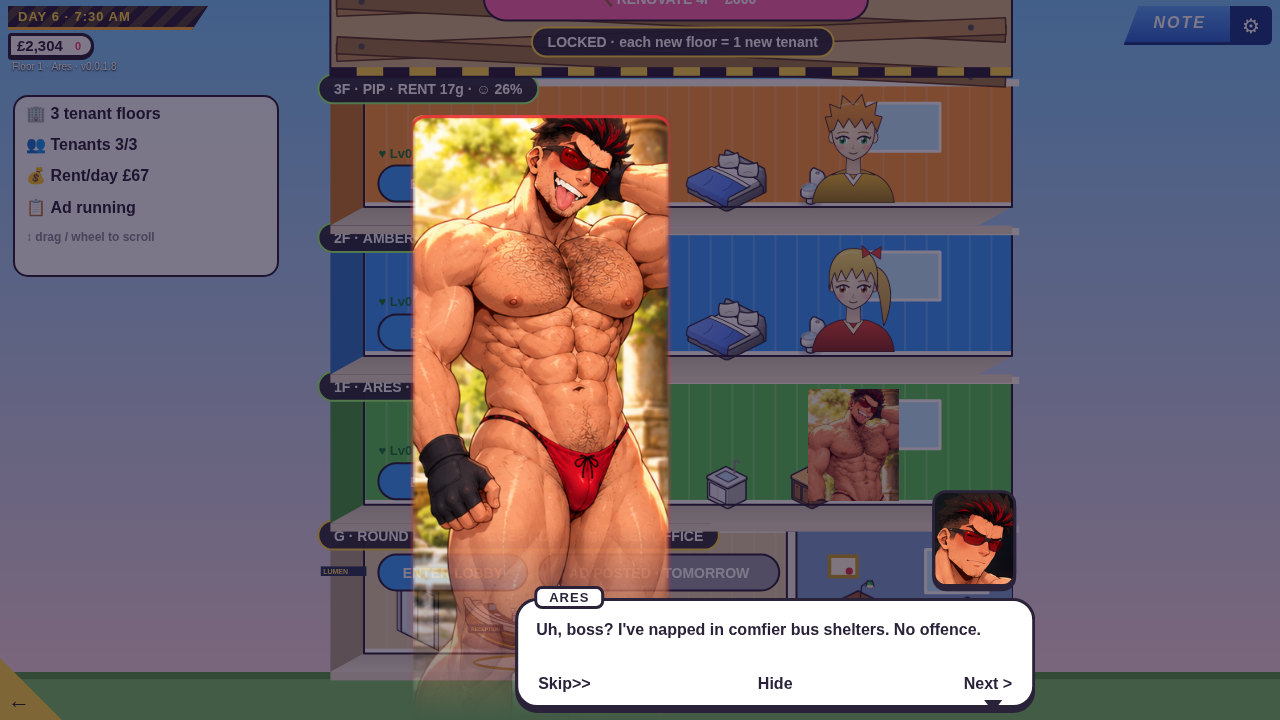
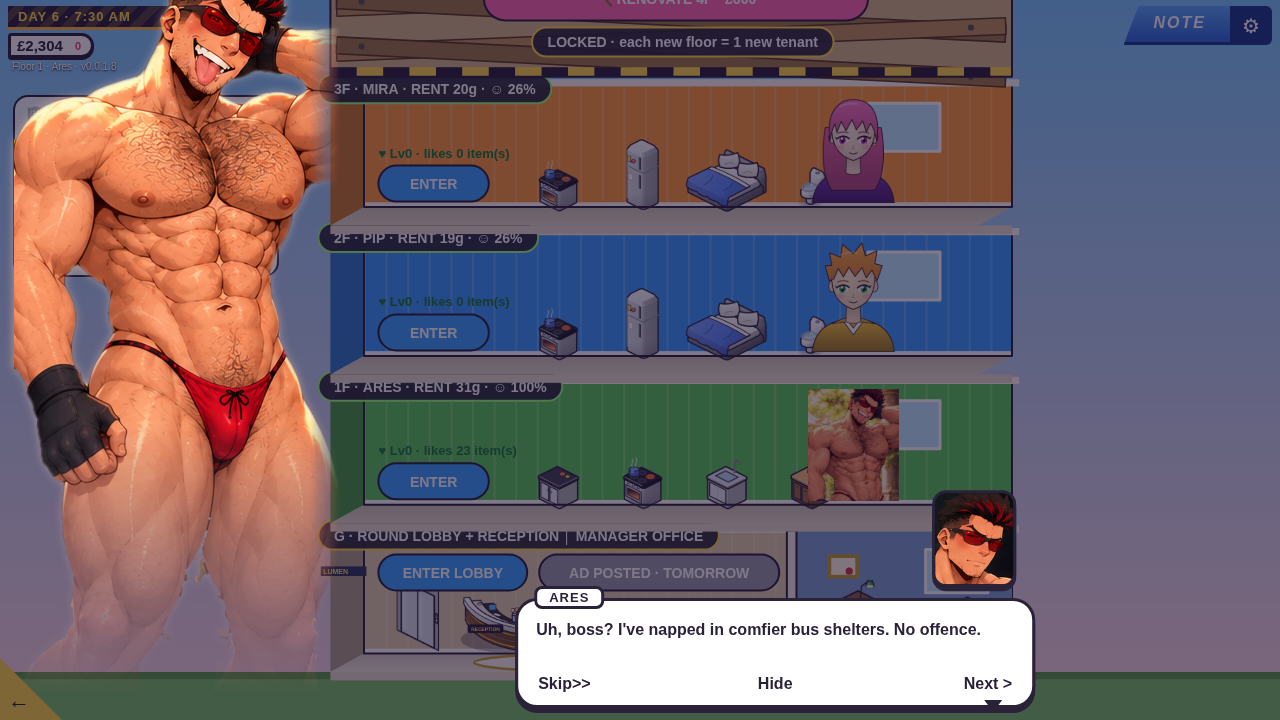
v0.0.1.8: Ares big model over the current scene (garden removed), 1:1, edge cleanup

diff --git a/ares.js b/ares.js
@@ -13,14 +13,16 @@ const aresReady=n=>{const i=ARES_IMG[n];return i&&i.complete&&i.naturalWidth>0;}
 // Dialogue art: the CG shown at native resolution in a clean frame, keeping its own painted background;
 // only the frame's alpha is feathered (sides) and faded (bottom, behind the text box) so no crop edge shows.
 let _adc=null;
-function aresDialogueArt(){if(_adc)return _adc;const b=ARES_IMG.cg;if(!aresReady('cg'))return null;const W=b.naturalWidth,H=b.naturalHeight;
- const c=document.createElement('canvas');c.width=W;c.height=H;const g=c.getContext('2d');g.drawImage(b,0,0);
- g.strokeStyle='rgba(232,50,58,.9)';g.lineWidth=4;g.beginPath();g.roundRect(2,2,W-4,H-4,18);g.stroke();
- g.globalCompositeOperation='destination-in';const m=document.createElement('canvas');m.width=W;m.height=H;const q=m.getContext('2d');
- q.beginPath();q.roundRect(0,0,W,H,18);q.fillStyle='#000';q.fill();q.globalCompositeOperation='destination-out';
- const fx=8;[[0,fx,1],[W,W-fx,1]].forEach(([a0,a1])=>{const lg=q.createLinearGradient(a0,0,a1,0);lg.addColorStop(0,'rgba(0,0,0,1)');lg.addColorStop(1,'rgba(0,0,0,0)');q.fillStyle=lg;q.fillRect(Math.min(a0,a1),0,fx,H);});
- const bg=q.createLinearGradient(0,H*.68,0,H);bg.addColorStop(0,'rgba(0,0,0,0)');bg.addColorStop(1,'rgba(0,0,0,1)');q.fillStyle=bg;q.fillRect(0,H*.68,W,H*.32);
- g.drawImage(m,0,0);return _adc=c;}
+{const im=new Image();im.src='assets/ares/cg_cut.png';ARES_IMG.cg_cut=im;}
+// Big model over the live (dimmed) scene: the CG figure cut from its garden (alpha only), a soft warm rim glow,
+// shown 1:1 anchored to the bottom-left screen corner (his left-arm crop lies on the screen edge, the right elbow crop is feathered), and the legs fading out behind the text box.
+function aresDialogueArt(){if(_adc)return _adc;if(!aresReady('cg_cut'))return null;const b=ARES_IMG.cg_cut,P=14,W=b.naturalWidth+P*2,H=b.naturalHeight+P;
+ const c=document.createElement('canvas');c.width=W;c.height=H;const g=c.getContext('2d');
+ g.save();g.shadowColor='rgba(255,214,190,.55)';g.shadowBlur=10;g.drawImage(b,P,P);g.restore();g.drawImage(b,P,P);
+ g.globalCompositeOperation='destination-out';
+ [[W-P,W-P-30]].forEach(([a0,a1])=>{const lg=g.createLinearGradient(a0,0,a1,0);lg.addColorStop(0,'rgba(0,0,0,1)');lg.addColorStop(1,'rgba(0,0,0,0)');g.fillStyle=lg;g.fillRect(Math.min(a0,a1)-(a0<a1?P:0),0,30+P,H);});
+ const bg=g.createLinearGradient(0,H*.62,0,H*.97);bg.addColorStop(0,'rgba(0,0,0,0)');bg.addColorStop(1,'rgba(0,0,0,1)');g.fillStyle=bg;g.fillRect(0,H*.62,W,H*.38);
+ return _adc=c;}
 // small face badge = the sheet's close-up for the line's emotion (shown at <= native size, anchored to the text box)
 function aresFace(expr){expr={happy:'smile',laugh:'smile',smirk:'teasing',embarrassed:'blush',blushing:'blush',thinking:'serious'}[expr]||expr;if(!ARES_EXPR.includes(expr))expr='smile';const n='expr_'+(expr=='blush'?'blushing':expr);return aresReady(n)?ARES_IMG[n]:null;}
 // small uses (applicant card, tenant list): the CG's upper body at native pixels, 420:520 aspect

diff --git a/game.js b/game.js
@@ -351,9 +351,9 @@ function drawApps(t){ctx.setTransform(1,0,0,1,0,0);const W=cv.width,H=cv.height;
 // ---------- dialogue ----------
 const dlg={on:false,lines:[],i:0,ch:0,name:'',hidden:false};
 function startDialogue(name,lines){Object.assign(dlg,{on:true,lines,i:0,ch:0,name,hidden:false});$('dlg').style.display='block';$('dlgName').textContent=name.toUpperCase();showLine();for(const k in keys)keys[k]=0;}
-function showLine(){const l=dlg.lines[dlg.i];const pc=$('dlgPortrait'),g=pc.getContext('2d');g.clearRect(0,0,pc.width,pc.height);const AA=dlg.name=='Ares'&&typeof aresDialogueArt=='function'&&aresDialogueArt(),fc=$('dlgFace');if(AA){const dpr=window.devicePixelRatio||1;if(pc.width!=AA.width){pc.width=AA.width;pc.height=AA.height;}g.clearRect(0,0,pc.width,pc.height);g.drawImage(AA,0,0);pc.style.height=Math.min(innerHeight*.84,AA.height/dpr)+'px';pc.style.filter='none';
+function showLine(){const l=dlg.lines[dlg.i];const pc=$('dlgPortrait'),g=pc.getContext('2d');g.clearRect(0,0,pc.width,pc.height);const AA=dlg.name=='Ares'&&typeof aresDialogueArt=='function'&&aresDialogueArt(),fc=$('dlgFace');if(AA){const dpr=window.devicePixelRatio||1;if(pc.width!=AA.width){pc.width=AA.width;pc.height=AA.height;}g.clearRect(0,0,pc.width,pc.height);g.drawImage(AA,0,0);pc.style.height=Math.min(AA.height/dpr,innerHeight*1.12)+'px';pc.style.filter='none';pc.style.left='0';pc.style.transform='none';
  const F=aresFace(l.e);if(F){fc.width=F.naturalWidth;fc.height=F.naturalHeight;const fg=fc.getContext('2d');fg.clearRect(0,0,fc.width,fc.height);fg.drawImage(F,0,0);fc.style.width=Math.min(F.naturalWidth/dpr,84)+'px';fc.style.display='block';}else fc.style.display='none';}
- else{if(pc.width!=420){pc.width=420;pc.height=520;}pc.style.height='';pc.style.filter='';fc.style.display='none';g.drawImage(portrait(dlg.name,l.e),0,0,pc.width,pc.height);}dlg.ch=0;$('dlgText').textContent='';$('dlgBox').style.visibility='visible';dlg.hidden=false;}
+ else{if(pc.width!=420){pc.width=420;pc.height=520;}pc.style.height='';pc.style.filter='';pc.style.left='';pc.style.transform='';fc.style.display='none';g.drawImage(portrait(dlg.name,l.e),0,0,pc.width,pc.height);}dlg.ch=0;$('dlgText').textContent='';$('dlgBox').style.visibility='visible';dlg.hidden=false;}
 function dlgNext(){const l=dlg.lines[dlg.i];if(dlg.ch<l.t.length){dlg.ch=l.t.length;$('dlgText').textContent=l.t;return;}dlg.i++;if(dlg.i>=dlg.lines.length)dlgClose();else showLine();}
 function dlgClose(){dlg.on=false;$('dlg').style.display='none';}
 $('dlgNext').onclick=e=>{e.stopPropagation();dlgNext();};$('dlgSkip').onclick=e=>{e.stopPropagation();dlgClose();};$('dlgHide').onclick=e=>{e.stopPropagation();dlg.hidden=true;$('dlgBox').style.visibility='hidden';};

diff --git a/test.py b/test.py
@@ -134,6 +134,13 @@ async def main():
     await ar.evaluate("FT.goArea('town',[23,22]);FT.setTime(22)");await ar.wait_for_timeout(300)
     print('22h',await ar.evaluate("FT.TN.Ares.place"))
     await ar.evaluate("FT.setPos(24,22)");await ar.wait_for_timeout(900);await ar.screenshot(path='screenshot-nightclub.png')
+    await ar.evaluate("document.getElementById('dlg').style.display=='block'&&document.getElementById('dlgSkip').click()")
+    await ar.evaluate("FT.TN.Ares.px=24.5;FT.TN.Ares.py=22.4;FT.setPos(24,23)");await ar.wait_for_timeout(400)
+    tb=ar.get_by_text('TALK · ARES')
+    if await tb.count():
+        await tb.first.click();await ar.wait_for_timeout(3500);await ar.screenshot(path='screenshot-ares-dialogue-town.png');print('town dlg',await ar.evaluate("document.getElementById('dlgText').textContent.slice(0,60)"))
+        await ar.evaluate("document.getElementById('dlgSkip').click()");await ar.wait_for_timeout(300)
+    else: print('no talk button')
     await ar.evaluate("FT.act(23,21)");await ar.wait_for_timeout(200);print('club menu',await ar.evaluate("document.getElementById('menu').innerText.slice(0,80)"));await ar.evaluate("closeMenu()")
     await ar.evaluate("FT.setTime(11.8);FT.goArea('town',[32,18])");await ar.wait_for_timeout(600);print('11:48',await ar.evaluate("FT.TN.Ares.place"));await ar.screenshot(path='/tmp/gym.png')
     await ar.evaluate("FT.act(31,15)");await ar.wait_for_timeout(200);print('gym menu',await ar.evaluate("document.getElementById('menu').innerText.slice(0,60)"));await ar.evaluate("closeMenu()")

diff --git a/assets/ares/cut_cg.py b/assets/ares/cut_cg.py
@@ -1,0 +1,13 @@
+# Cut Ares out of the dialogue CG (removes the garden). Needs rembg (isnet-anime): run with /tmp/ares7/rbg/bin/python.
+# Character RGB is untouched; only the alpha channel is computed (mask, 1px erode + 1.2px soft edge to drop background fringe).
+from rembg import remove,new_session
+from PIL import Image,ImageFilter,ImageChops
+im=Image.open('sheet.png').convert('RGBA').crop((5,0,331,805))
+m=remove(im.convert('RGB'),session=new_session('isnet-anime'),only_mask=True,post_process_mask=True).convert('L')
+m=ImageChops.darker(m,m.filter(ImageFilter.MinFilter(3)).filter(ImageFilter.GaussianBlur(1.2)))
+m=m.point(lambda v:0 if v<28 else v)
+import numpy as np
+A=np.asarray(im).astype(int); M=np.asarray(m).copy(); sat=A[...,:3].max(-1)-A[...,:3].min(-1)
+M[600:][(sat[600:]<70)]=0  # paving stones the mask kept between his legs (low-saturation grey); skin is strongly saturated
+m=Image.fromarray(M).filter(ImageFilter.MinFilter(3)).filter(ImageFilter.GaussianBlur(.8)); m=ImageChops.darker(m,Image.fromarray(M))
+im.putalpha(m); im.crop(im.getbbox()).save('cg_cut.png'); print(im.getbbox())

diff --git a/assets/ares/post_cg.py b/assets/ares/post_cg.py
@@ -1,0 +1,7 @@
+# Second pass after cut_cg.py (system python3): alpha-only cleanup of paving stones between the legs.
+import numpy as np,scipy.ndimage as nd
+from PIL import Image
+A=np.asarray(Image.open('cg_cut.png')).copy();r,g=A[...,0].astype(int),A[...,1].astype(int)
+bad=np.zeros(r.shape,bool);bad[560:]=(r[560:]<g[560:]*1.32+6);bad=nd.binary_opening(bad,iterations=1);A[...,3][bad]=0
+lab,n=nd.label(A[...,3]>40);sz=nd.sum(np.ones(r.shape),lab,range(1,n+1));k=int(np.argmax(sz))+1;A[...,3][~nd.binary_dilation(lab==k,iterations=2)]=0
+Image.fromarray(A).save('cg_cut.png')

diff --git a/README.md b/README.md
@@ -38,3 +38,4 @@ Save: localStorage `fantasytown_save_v8` (older saves reset with +150g).
 ## v0.0.1.8
 - Ares dialogue: the CG is shown at native resolution (never upscaled, sized for devicePixelRatio), keeps its painted background, and sits in a red frame with an 8px side feather and a bottom fade behind the text box. The expression close-up is a badge anchored to the text box.
 - In-world: emote icons are cut from the sheet and drawn at native size beside his head, following him. Edge alpha is decontaminated against the panel colour, and there is a soft radial ground shadow.
+- Dialogue art: the CG figure is cut from its garden (alpha only, via `assets/ares/cut_cg.py` + `post_cg.py`) and stands over the live, dimmed location (room or town). It is shown 1:1, never upscaled, anchored to the bottom-left so his left-arm crop sits on the screen edge and his hair top runs off-screen. It has a soft warm rim glow, and his legs fade out behind the text box.
